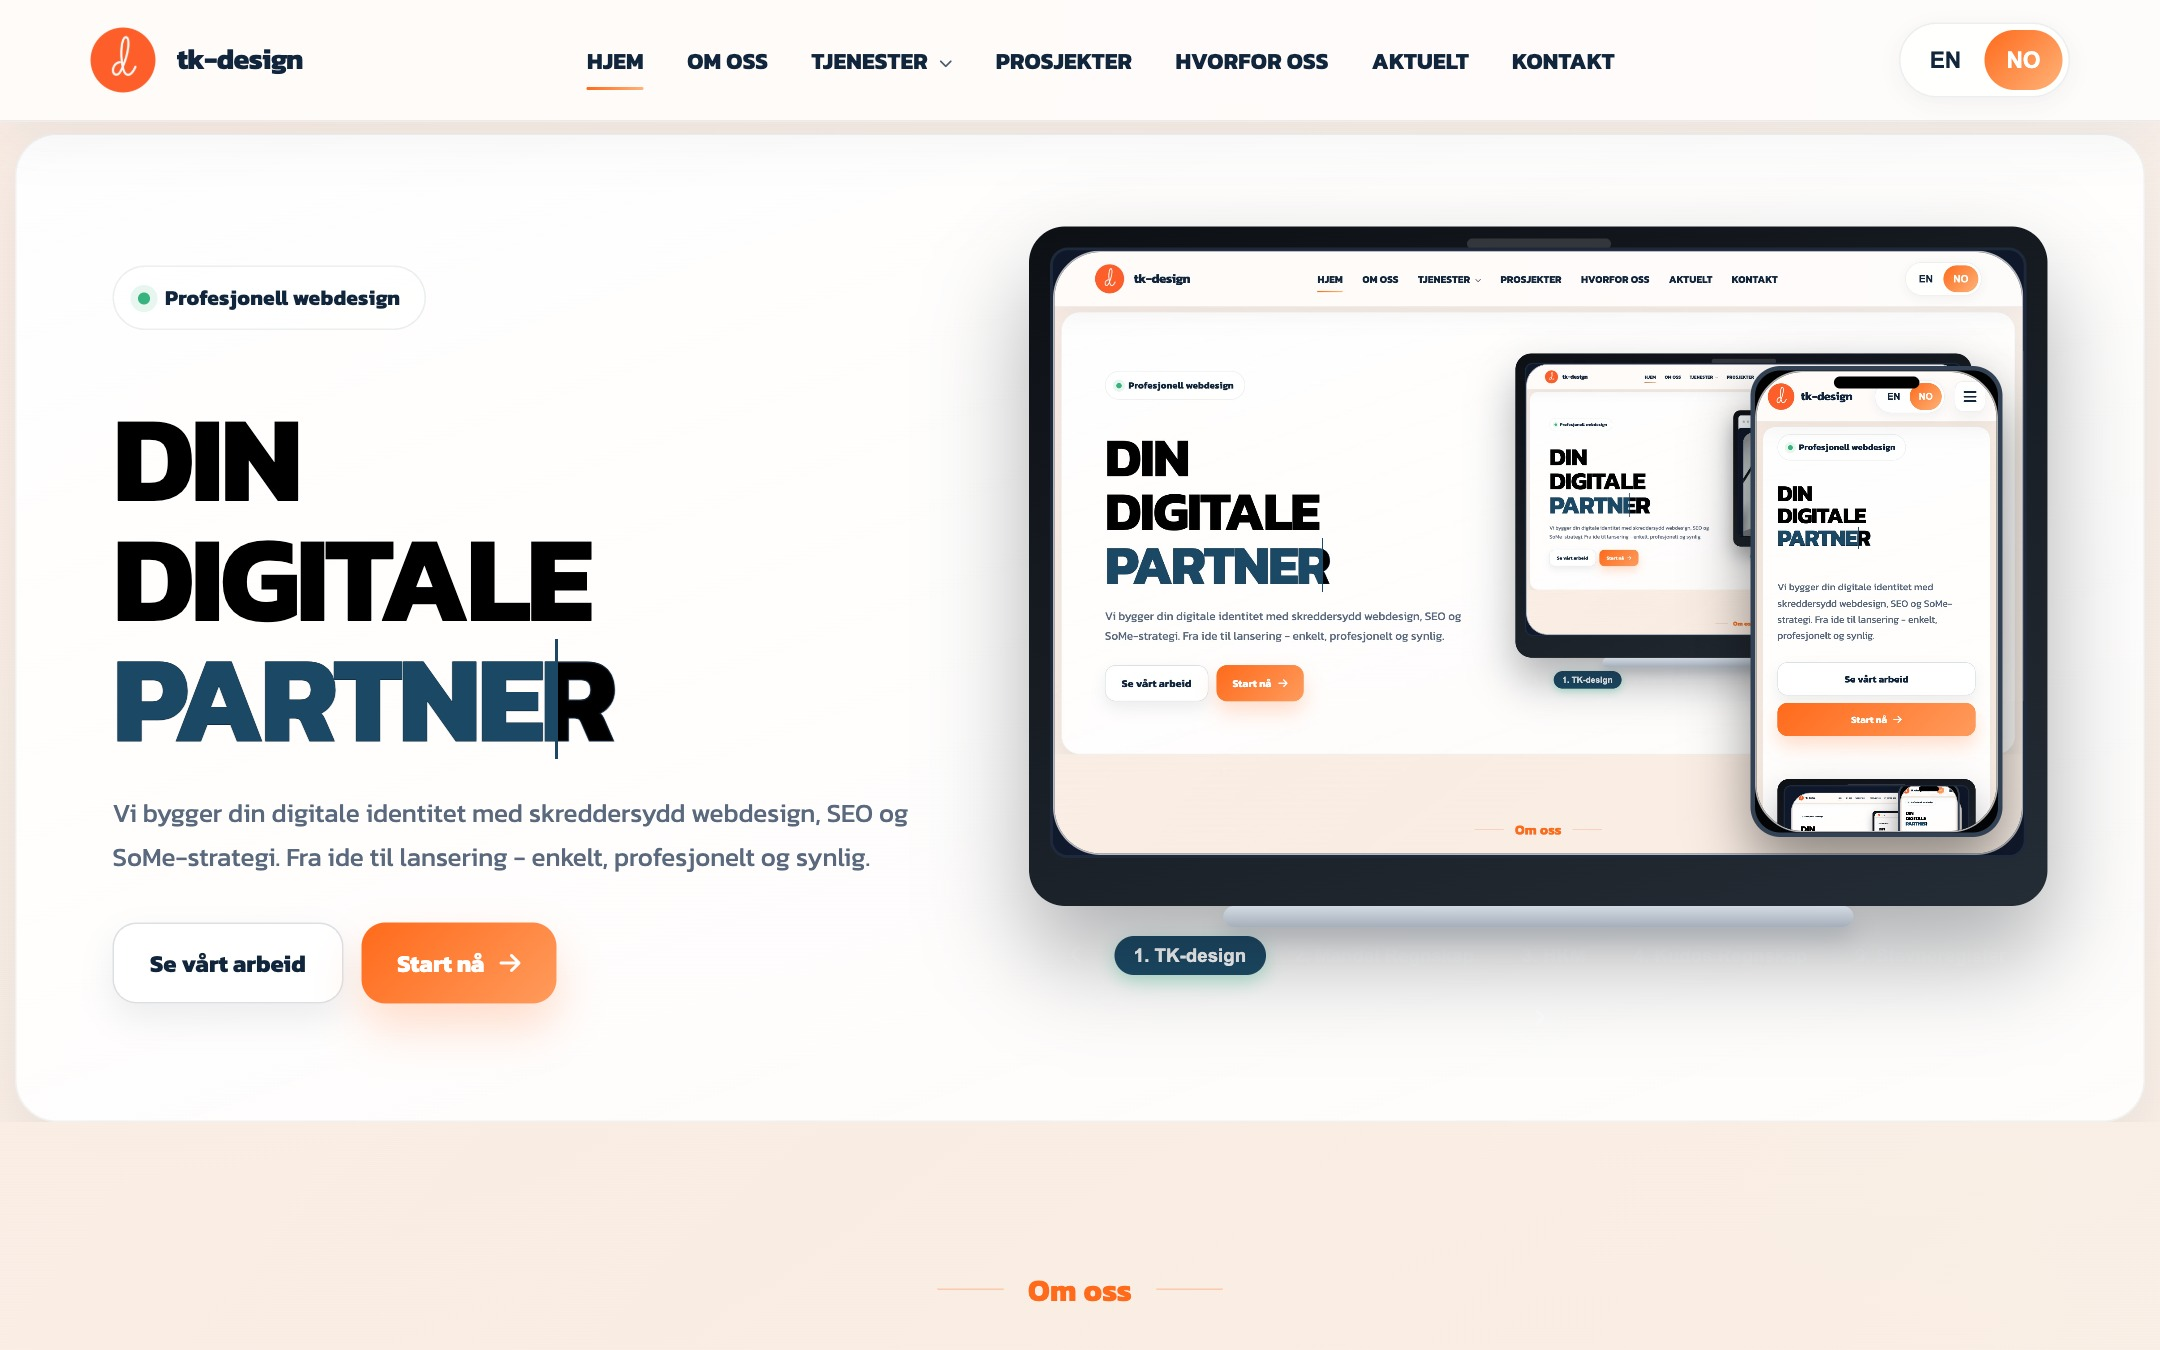
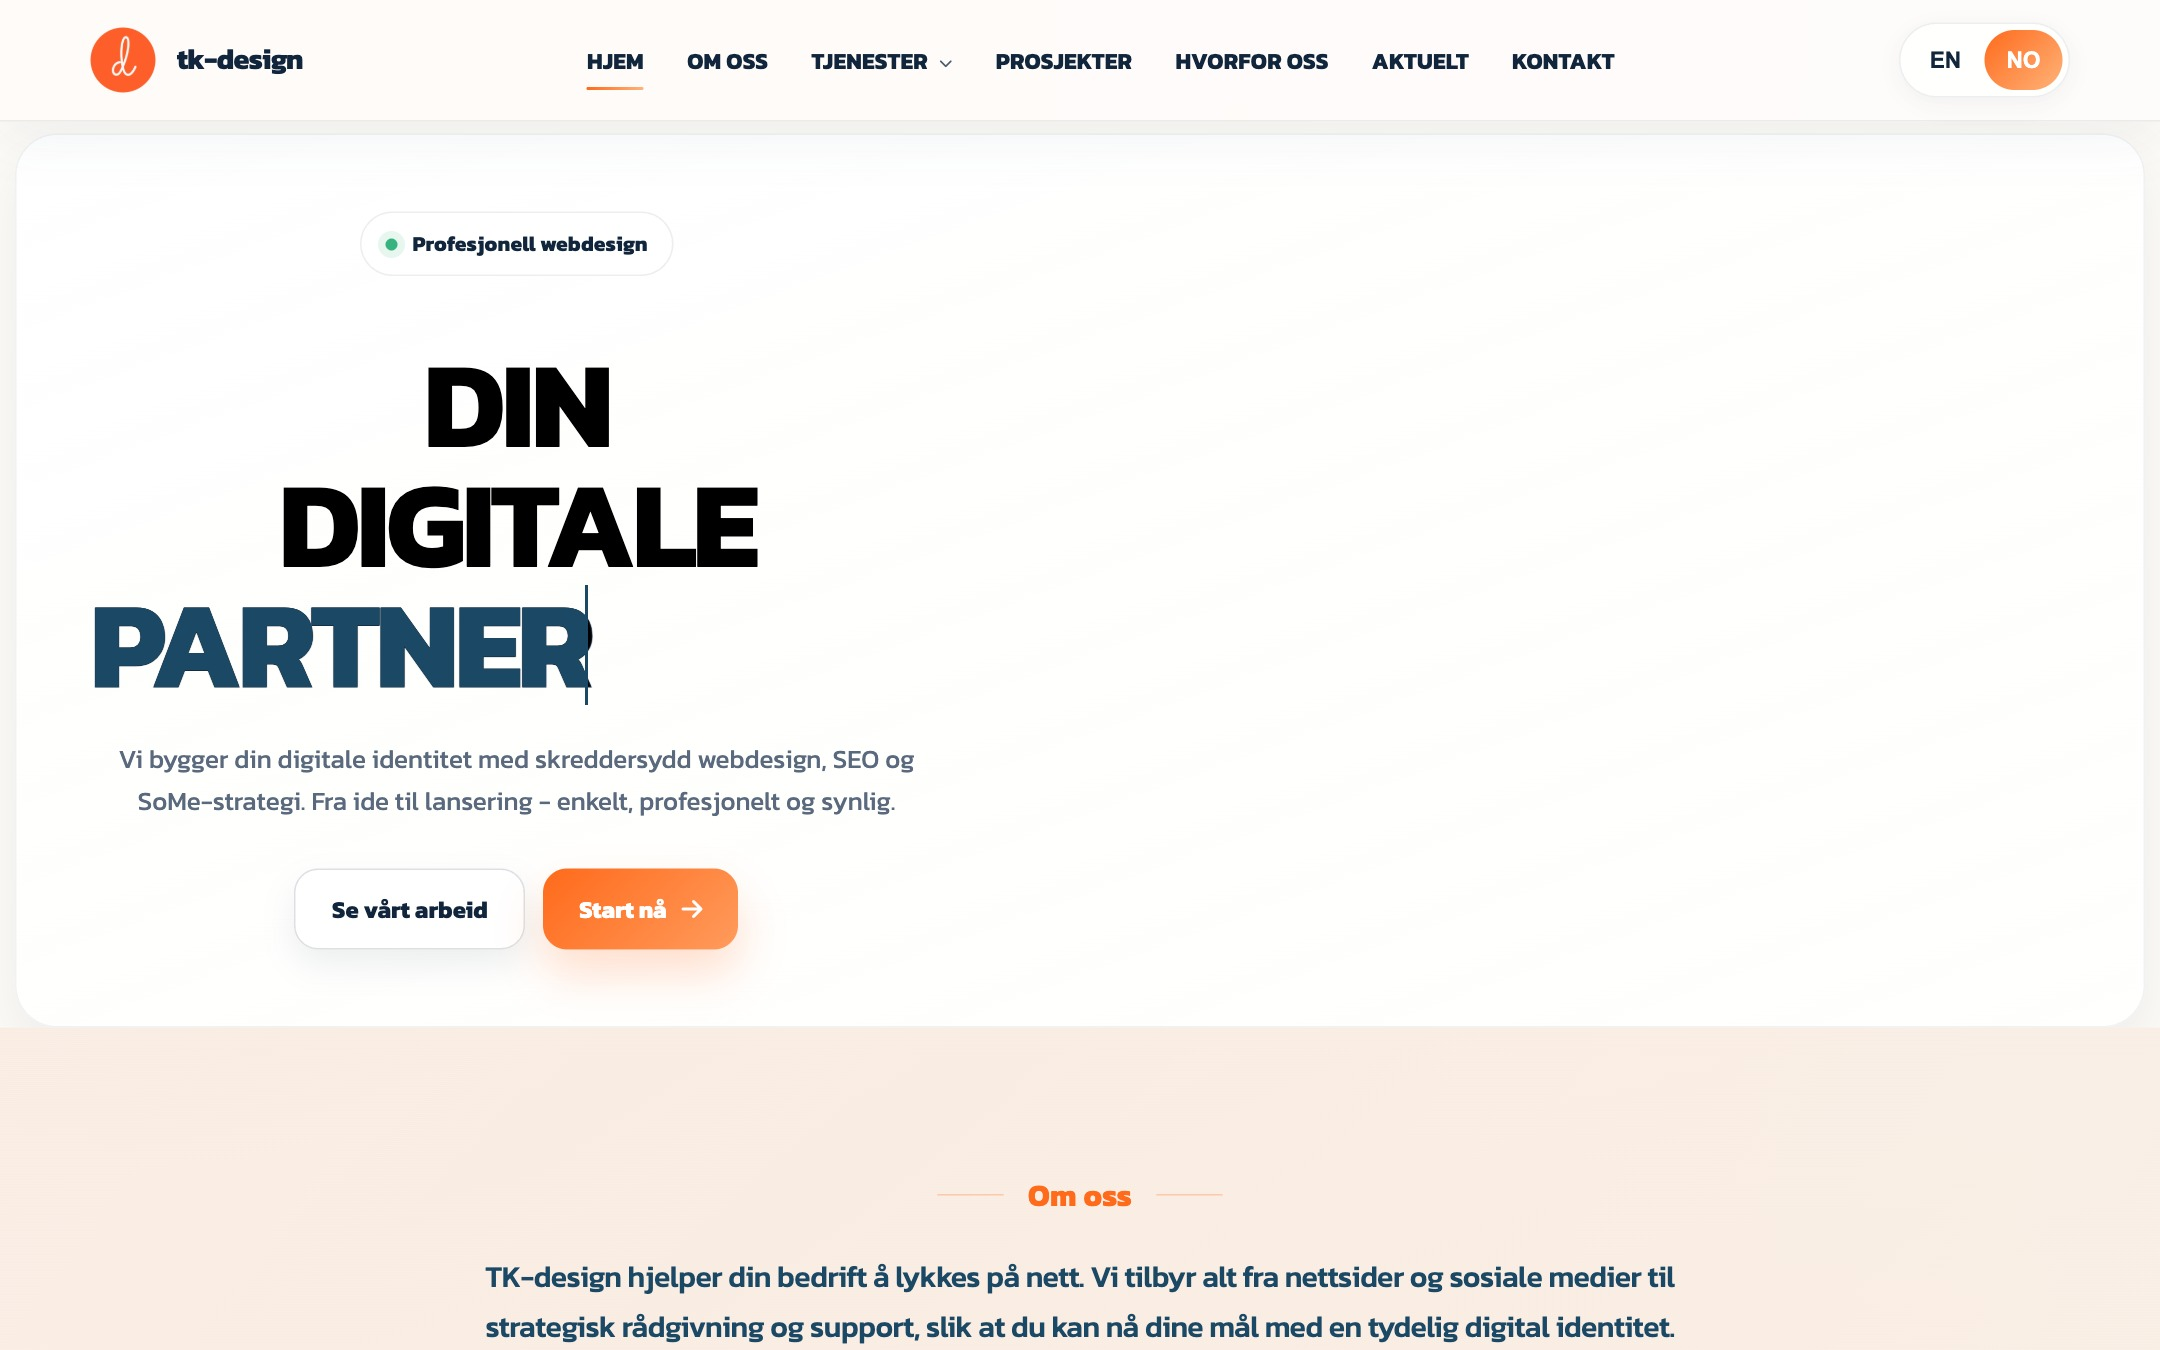
fix: enforce sharp 100% rectangular desktop view inside MacBook screen without rounded card borders

diff --git a/legacy_html/style.css b/legacy_html/style.css
@@ -9296,13 +9296,21 @@ body#home.homepage-refresh .hero-showcase-nav {
     text-transform: uppercase;
 }
 
-body#home.homepage-refresh .hero-showcase-stage {
-    position: relative;
+body#home.homepage-refresh .hero-desktop-view {
     width: 100%;
     height: 100%;
-    padding: 0;
+    border-radius: 0 !important;
     overflow: hidden;
-    background: #0f172a;
+    transition: opacity 0.3s ease;
+}
+
+body#home.homepage-refresh .hero-desktop-view img {
+    width: 100%;
+    height: 100%;
+    border-radius: 0 !important;
+    object-fit: cover;
+    object-position: top left;
+    display: block;
 }
 
 body#home.homepage-refresh .hero-showcase-window,
